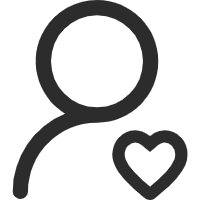
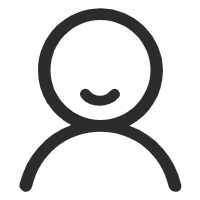
更换tabbar图标

Changed region(s): [[0.06, 0.0, 0.96, 1.0], [0.69, 0.72, 0.72, 0.75]]

diff --git a/src/main/resources/static/linfeng-community-uniapp-ky/pages/post/post.vue b/src/main/resources/static/linfeng-community-uniapp-ky/pages/post/post.vue
@@ -10,7 +10,7 @@
 					</view>
 					<u-button v-show="!isAuthor&&postDetail.isFollow" size="mini" style="float:right;font-size: 14px;"
 						@click="cancelFollow">已关注</u-button>
-					<u-button v-show="!isAuthor&&!postDetail.isFollow" size="mini" style="float:right;font-size: 14px;"
+					<u-button v-show="!isAuthor&&!postDetail.isFollow" size="mini" style="float:right;font-size: 14px;background-color: #333;color: #fff;"
 						@click="follow">关注</u-button>
 					<u-button v-show="isAuthor" size="mini" type="error" style="float:right;font-size: 14px;"
 						@click="deletePost">删除</u-button>
@@ -157,7 +157,7 @@
 			return {
 				btnStyle: {
 					color: "#fff",
-					backgroundColor: '#55aaff'
+					backgroundColor: '#333'
 				},
 				postId: 0,
 				postDetail: {

diff --git a/src/main/resources/static/linfeng-community-uniapp-ky/README.md b/src/main/resources/static/linfeng-community-uniapp-ky/README.md
@@ -22,7 +22,7 @@
 
 **标准版和开源版的区别**：
 
-https://net.linfeng.tech/version/version.html
+https://www.linfengtech.cn/version/version.html
 
 开源版运行效果：
 
@@ -30,6 +30,4 @@ https://net.linfeng.tech/version/version.html
 
 了解更多请查看：
 
-[林风社交论坛官网](https://net.linfeng.tech) 
-
-备用官网：https://www.linfengtech.cn/
+[林风社交论坛官网](https://www.linfengtech.cn) 
